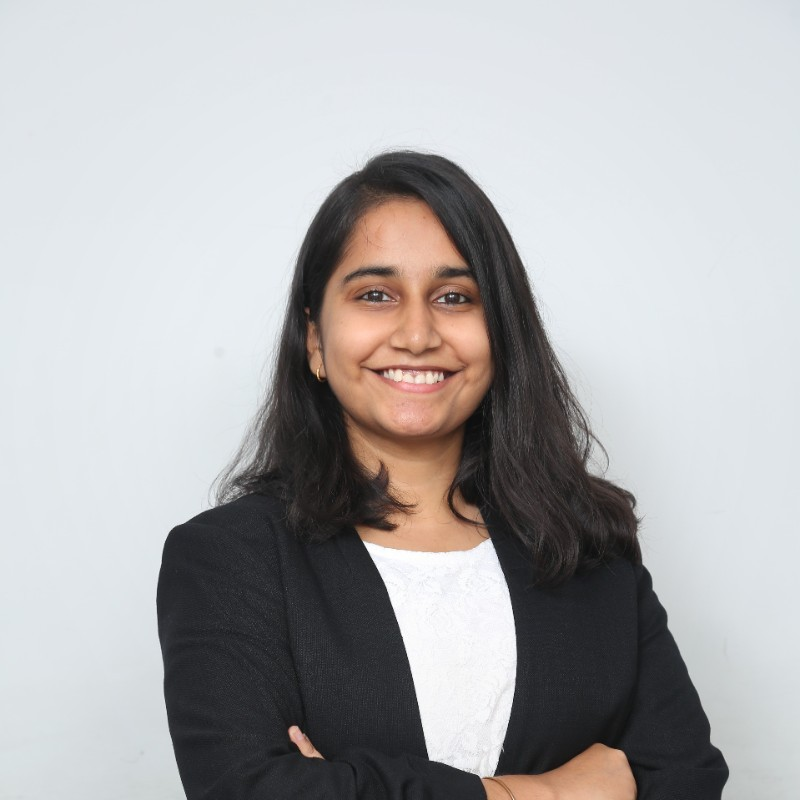
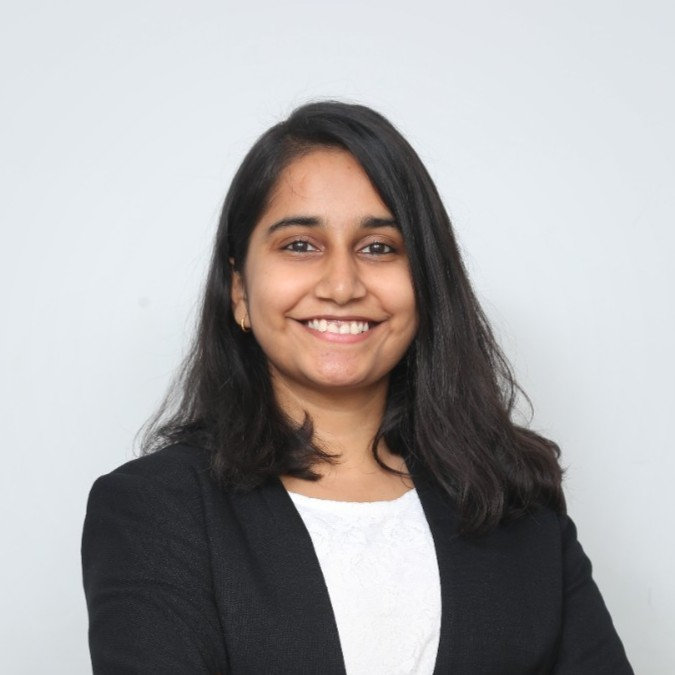
perf: add LCP priority to headshot, replace with cropped image, fix tagline punctuation
- Add `priority` prop to headshot <Image> — it is the LCP element on /about
- Replace public/headshot.jpeg with pre-cropped version
- Fix em-dash + hyphen clash in positioning tagline (comma replaces dash)

Changed region(s): [[0.0933, 0.1244, 0.9644, 1.0], [0.3422, 0.9022, 0.4044, 0.9644], [0.3422, 0.6222, 0.3733, 0.6533]]

diff --git a/src/app/about/page.tsx b/src/app/about/page.tsx
@@ -66,6 +66,7 @@ export default function AboutPage() {
                   alt={about.headshotAlt}
                   fill
                   className="object-cover object-[center_25%]"
+                  priority
                   unoptimized={about.headshot.endsWith(".svg")}
                   sizes="(min-width: 768px) clamp(200px, 24vw, 320px), 100vw"
                 />

diff --git a/PRIMER.md b/PRIMER.md
@@ -154,7 +154,15 @@ Footer responsive exception: `support-meta` + local Tailwind override to 11px/18
 
 ## Last Session
 
-**Responsive layout improvements + portrait scaling (phase-5-about-page). Committed: `0ef96b7`.**
+**About page headshot fixes (phase-5-about-page).**
+
+**Headshot crop fixed:**
+- Replaced `public/headshot.jpeg` with a pre-cropped version of the image
+- Added `priority` prop to the `<Image>` in `src/app/about/page.tsx` — headshot is LCP element; `priority` adds `<link rel="preload">` and sets `loading="eager"`
+- `object-[center_25%]` positioning retained (composition tuning)
+- Cache fix: clearing `.next/cache/images` alone was insufficient — full `.next/` deletion required to bust the optimized image cache after source file replacement
+
+**Previous: Responsive layout improvements + portrait scaling (phase-5-about-page). Committed: `0ef96b7`.**
 
 **Approach grid:**
 - `lg:grid-cols-3` → `xl:grid-cols-3` — 3-col now holds from 1280px+; 900–1100px range is 2-col (was cramped 3-col)
@@ -183,8 +191,7 @@ Footer responsive exception: `support-meta` + local Tailwind override to 11px/18
 ## Next Steps
 
 **About page polish (before merge):**
-1. Headshot crop/focus — current `object-[center_25%]` not working well; needs a different approach
-2. Name text (`display-accent`) weight — could be thinner
+1. Name text (`display-accent`) weight — could be thinner
 3. Em-dash + hyphen clash in positioning tagline at responsive widths — fix punctuation or reflow
 4. Increase spacing between major page sections (currently `Stack gap="3xl"`)
 5. Typography size steps — about page needs 3 steps to match ref's behavior (currently 2)